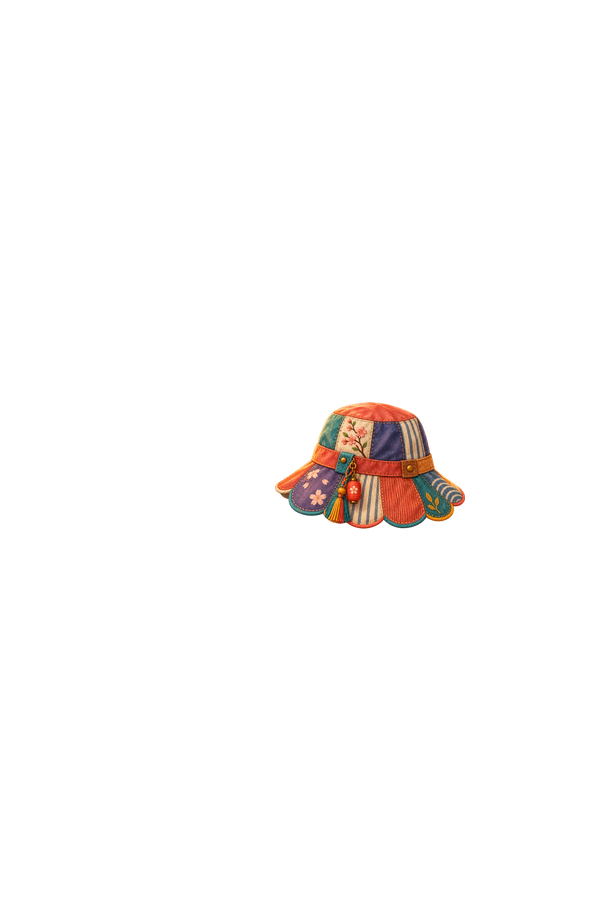
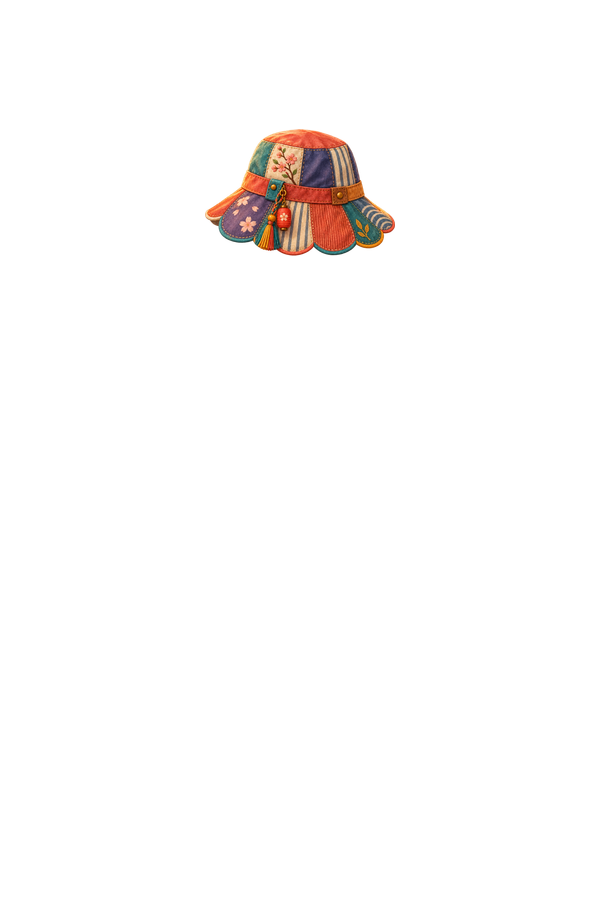
Fix headwear anchor, confirm wide-leg-pants, soften head/neck seam
- Headwear (explorer cap, bucket hat) was normalized into the chest-level
  accessory slot bounds during generation, so it rendered floating over the
  torso instead of on the head. Added a normalizeSlot override
  (server/closet/tokyoManifest.ts + generateClosetAsset.ts) so headwear
  normalizes into the head-level hair slot bounds instead, and re-normalized
  the two existing PNGs locally (no new generation cost).
- Confirmed wide-leg-pants renders correctly (already fixed by earlier
  catalog wiring).
- Added a soft blurred shadow at the neck/shoulder and chin/neck junctions in
  ClassicDoll's SVG to feather the head-to-body seam.
- Full manual verification pass: every top/bottom/layer/shoe/accessory and
  representative color swatches confirmed rendering, correctly positioned,
  and non-duplicating at mobile/tablet/desktop widths.

Changed region(s): [[0.45, 0.4356, 0.78, 0.5911], [0.33, 0.1244, 0.66, 0.3111]]

diff --git a/src/LittleJetterApp.tsx b/src/LittleJetterApp.tsx
@@ -116,9 +116,9 @@ function ClassicDoll({ picks, character, garmentColors, onlyLayer, previewViewBo
   const isSweater = picks.tops === 'sweater' || picks.tops === 'adventure-shirt';
   const hairStyle = character.hairStyle ?? 'curls';
   return <svg className={`little-aligned-doll ${onlyLayer ? 'little-garment-canvas' : ''}`} viewBox={previewViewBox} style={{ '--top-fill': top, '--bottom-fill': bottom, '--layer-fill': layer ?? 'transparent', '--shoe-fill': shoes } as React.CSSProperties} data-master-canvas="600x900" data-hidden-layers={hiddenLayers.join(' ')} data-only-layer={onlyLayer} data-layer-map={JSON.stringify(LAYERS)} role="img" aria-label={onlyLayer ? `${onlyLayer} garment preview` : `Doll in a base outfit wearing ${wardrobe.tops.find(item=>item.id===picks.tops)?.name}, ${wardrobe.bottoms.find(item=>item.id===picks.bottoms)?.name}, and ${wardrobe.shoes.find(item=>item.id===picks.shoes)?.name}`}>
-    <defs><radialGradient id="skinGlow" cx="34%" cy="20%" r="82%"><stop stopColor="#fff" stopOpacity=".48"/><stop offset=".42" stopColor={skin}/><stop offset=".82" stopColor={skin}/><stop offset="1" stopColor="#70432f" stopOpacity=".3"/></radialGradient><linearGradient id="skinBody" x1=".18" y1="0" x2=".82" y2="1"><stop stopColor="#fff" stopOpacity=".3"/><stop offset=".3" stopColor={skin}/><stop offset="1" stopColor="#70432f" stopOpacity=".23"/></linearGradient><linearGradient id="underTop" x1="0" y1="0" x2="1" y2="1"><stop stopColor="#fffdf6"/><stop offset=".55" stopColor="#fff3d8"/><stop offset="1" stopColor="#dfc397"/></linearGradient><linearGradient id="underBottom" x1="0" y1="0" x2="1" y2="1"><stop stopColor="#8eabc2"/><stop offset=".55" stopColor="#607f9d"/><stop offset="1" stopColor="#405f7c"/></linearGradient><linearGradient id="hairShade" x1=".2" y1="0" x2=".8" y2="1"><stop stopColor="#fff" stopOpacity=".24"/><stop offset=".28" stopColor={hair}/><stop offset="1" stopColor="#211a19" stopOpacity=".46"/></linearGradient><linearGradient id="topShade" x1=".15" y1="0" x2=".85" y2="1"><stop stopColor="#fff" stopOpacity=".4"/><stop offset=".45" stopColor={top}/><stop offset="1" stopColor="#173a47" stopOpacity=".2"/></linearGradient><linearGradient id="bottomShade" x1=".1" y1="0" x2=".9" y2="1"><stop stopColor="#fff" stopOpacity=".26"/><stop offset=".42" stopColor={bottom}/><stop offset="1" stopColor="#173a47" stopOpacity=".25"/></linearGradient><linearGradient id="layerShade" x1=".1" y1="0" x2=".9" y2="1"><stop stopColor="#fff" stopOpacity=".4"/><stop offset=".48" stopColor={layer}/><stop offset="1" stopColor="#173a47" stopOpacity=".22"/></linearGradient><linearGradient id="shoeShade" x1=".15" y1="0" x2=".85" y2="1"><stop stopColor="#fff" stopOpacity=".3"/><stop offset=".44" stopColor={shoes}/><stop offset="1" stopColor="#173a47" stopOpacity=".28"/></linearGradient><filter id="softShadow"><feDropShadow dx="0" dy="4" stdDeviation="5" floodColor="#173a47" floodOpacity=".18"/></filter></defs>
+    <defs><radialGradient id="skinGlow" cx="34%" cy="20%" r="82%"><stop stopColor="#fff" stopOpacity=".48"/><stop offset=".42" stopColor={skin}/><stop offset=".82" stopColor={skin}/><stop offset="1" stopColor="#70432f" stopOpacity=".3"/></radialGradient><linearGradient id="skinBody" x1=".18" y1="0" x2=".82" y2="1"><stop stopColor="#fff" stopOpacity=".3"/><stop offset=".3" stopColor={skin}/><stop offset="1" stopColor="#70432f" stopOpacity=".23"/></linearGradient><linearGradient id="underTop" x1="0" y1="0" x2="1" y2="1"><stop stopColor="#fffdf6"/><stop offset=".55" stopColor="#fff3d8"/><stop offset="1" stopColor="#dfc397"/></linearGradient><linearGradient id="underBottom" x1="0" y1="0" x2="1" y2="1"><stop stopColor="#8eabc2"/><stop offset=".55" stopColor="#607f9d"/><stop offset="1" stopColor="#405f7c"/></linearGradient><linearGradient id="hairShade" x1=".2" y1="0" x2=".8" y2="1"><stop stopColor="#fff" stopOpacity=".24"/><stop offset=".28" stopColor={hair}/><stop offset="1" stopColor="#211a19" stopOpacity=".46"/></linearGradient><linearGradient id="topShade" x1=".15" y1="0" x2=".85" y2="1"><stop stopColor="#fff" stopOpacity=".4"/><stop offset=".45" stopColor={top}/><stop offset="1" stopColor="#173a47" stopOpacity=".2"/></linearGradient><linearGradient id="bottomShade" x1=".1" y1="0" x2=".9" y2="1"><stop stopColor="#fff" stopOpacity=".26"/><stop offset=".42" stopColor={bottom}/><stop offset="1" stopColor="#173a47" stopOpacity=".25"/></linearGradient><linearGradient id="layerShade" x1=".1" y1="0" x2=".9" y2="1"><stop stopColor="#fff" stopOpacity=".4"/><stop offset=".48" stopColor={layer}/><stop offset="1" stopColor="#173a47" stopOpacity=".22"/></linearGradient><linearGradient id="shoeShade" x1=".15" y1="0" x2=".85" y2="1"><stop stopColor="#fff" stopOpacity=".3"/><stop offset=".44" stopColor={shoes}/><stop offset="1" stopColor="#173a47" stopOpacity=".28"/></linearGradient><filter id="softShadow"><feDropShadow dx="0" dy="4" stdDeviation="5" floodColor="#173a47" floodOpacity=".18"/></filter><filter id="neckBlend" x="-60%" y="-60%" width="220%" height="220%"><feGaussianBlur stdDeviation="3.2"/></filter></defs>
     <g transform="scale(1.5)"><ellipse cx="200" cy="520" rx="82" ry="13" fill="#173a47" opacity=".16" filter="url(#softShadow)"/>
-    <g data-layer="base"><path d="M157 220q-24 24-35 83l-8 83q-2 20 14 23 17 2 20-17l12-75 15-53zm86 0q24 24 35 83l8 83q2 20-14 23-17 2-20-17l-12-75-15-53z" fill="url(#skinBody)"/><path d="M174 329l-15 145-8 31q-4 17 12 22 16 4 23-14l14-54 14 54q7 18 23 14 16-5 12-22l-8-31-15-145z" fill="url(#skinBody)"/><path d="M184 194h32l6 32h-44z" fill="url(#skinBody)"/><ellipse cx="143" cy="151" rx="12" ry="18" fill="url(#skinBody)"/><ellipse cx="257" cy="151" rx="12" ry="18" fill="url(#skinBody)"/><circle cx="200" cy="145" r="63" fill="url(#skinGlow)"/><ellipse cx="182" cy="155" rx="12" ry="14" fill="#fffaf4"/><ellipse cx="218" cy="155" rx="12" ry="14" fill="#fffaf4"/><circle cx="182" cy="157" r="7" fill={eyes}/><circle cx="218" cy="157" r="7" fill={eyes}/><circle cx="179" cy="153" r="2.7" fill="white"/><circle cx="215" cy="153" r="2.7" fill="white"/><path d="M169 136q13-8 25 0m12 0q12-8 25 0" fill="none" stroke={hair} strokeOpacity=".7" strokeWidth="4" strokeLinecap="round"/><path d="M201 157q-5 11 1 15" fill="none" stroke="#8d5847" strokeOpacity=".45" strokeWidth="2.5" strokeLinecap="round"/><path d="M184 181q16 15 32 0" fill="#c85f61" fillOpacity=".16" stroke="#9b4d46" strokeWidth="3.2" strokeLinecap="round"/><ellipse cx="163" cy="174" rx="12" ry="7" fill="#ef8f80" opacity=".26"/><ellipse cx="237" cy="174" rx="12" ry="7" fill="#ef8f80" opacity=".26"/>{character.style === 'girl' && <><path d="M169 150l-5-3m68 3 5-3" stroke={hair} strokeWidth="2.5" strokeLinecap="round"/><circle cx="171" cy="173" r="1.5" fill="#9b5b4b" opacity=".5"/><circle cx="176" cy="176" r="1.4" fill="#9b5b4b" opacity=".45"/><circle cx="229" cy="173" r="1.5" fill="#9b5b4b" opacity=".5"/><circle cx="224" cy="176" r="1.4" fill="#9b5b4b" opacity=".45"/></>}</g>
+    <g data-layer="base"><path d="M157 220q-24 24-35 83l-8 83q-2 20 14 23 17 2 20-17l12-75 15-53zm86 0q24 24 35 83l8 83q2 20-14 23-17 2-20-17l-12-75-15-53z" fill="url(#skinBody)"/><path d="M174 329l-15 145-8 31q-4 17 12 22 16 4 23-14l14-54 14 54q7 18 23 14 16-5 12-22l-8-31-15-145z" fill="url(#skinBody)"/><path d="M184 194h32l6 32h-44z" fill="url(#skinBody)"/><ellipse cx="200" cy="196" rx="19" ry="7" fill="#70432f" opacity=".14" filter="url(#neckBlend)"/><ellipse cx="200" cy="223" rx="27" ry="9" fill="#70432f" opacity=".22" filter="url(#neckBlend)"/><ellipse cx="143" cy="151" rx="12" ry="18" fill="url(#skinBody)"/><ellipse cx="257" cy="151" rx="12" ry="18" fill="url(#skinBody)"/><circle cx="200" cy="145" r="63" fill="url(#skinGlow)"/><ellipse cx="182" cy="155" rx="12" ry="14" fill="#fffaf4"/><ellipse cx="218" cy="155" rx="12" ry="14" fill="#fffaf4"/><circle cx="182" cy="157" r="7" fill={eyes}/><circle cx="218" cy="157" r="7" fill={eyes}/><circle cx="179" cy="153" r="2.7" fill="white"/><circle cx="215" cy="153" r="2.7" fill="white"/><path d="M169 136q13-8 25 0m12 0q12-8 25 0" fill="none" stroke={hair} strokeOpacity=".7" strokeWidth="4" strokeLinecap="round"/><path d="M201 157q-5 11 1 15" fill="none" stroke="#8d5847" strokeOpacity=".45" strokeWidth="2.5" strokeLinecap="round"/><path d="M184 181q16 15 32 0" fill="#c85f61" fillOpacity=".16" stroke="#9b4d46" strokeWidth="3.2" strokeLinecap="round"/><ellipse cx="163" cy="174" rx="12" ry="7" fill="#ef8f80" opacity=".26"/><ellipse cx="237" cy="174" rx="12" ry="7" fill="#ef8f80" opacity=".26"/>{character.style === 'girl' && <><path d="M169 150l-5-3m68 3 5-3" stroke={hair} strokeWidth="2.5" strokeLinecap="round"/><circle cx="171" cy="173" r="1.5" fill="#9b5b4b" opacity=".5"/><circle cx="176" cy="176" r="1.4" fill="#9b5b4b" opacity=".45"/><circle cx="229" cy="173" r="1.5" fill="#9b5b4b" opacity=".5"/><circle cx="224" cy="176" r="1.4" fill="#9b5b4b" opacity=".45"/></>}</g>
     <g key={`${hairStyle}-${character.hair}`} data-layer="hair" data-hair-style={hairStyle} filter="url(#softShadow)">
       {hairStyle === 'short' && <><path d="M143 145q2-71 57-71 58 0 57 73-18-38-57-38-38 0-57 36z" fill={hair} stroke="#173a47" strokeWidth="5"/><path d="M153 111q47-34 94 5" fill="none" stroke="white" strokeOpacity=".13" strokeWidth="7" strokeLinecap="round"/></>}
       {hairStyle === 'bob' && <><path d="M137 150q-3-84 63-84 67 0 64 84l-9 63-30-13 7-74q-32-29-64 0l7 74-30 13z" fill={hair} stroke="#173a47" strokeWidth="5"/><path d="M158 105q42-29 83 4" fill="none" stroke="white" strokeOpacity=".14" strokeWidth="7" strokeLinecap="round"/></>}

diff --git a/server/closet/tokyoManifest.ts b/server/closet/tokyoManifest.ts
@@ -55,9 +55,25 @@ const COLOR_VARIANTS: Record<string, string[]> = {
   'adventure-shirt': ['red', 'blue', 'purple', 'teal'],
 };
 
+// "accessory" is one catalog `slot`, but it covers two very different anchor
+// points on the doll: headwear (cap, bucket hat — anchored at head level) vs
+// handheld/worn-on-body items (bag, camera — anchored at chest level). The
+// catalog's `slot` field stays "accessory" for both (it drives z-index and
+// which fallback vector layer gets hidden), but generation must normalize
+// headwear into the `hair` slot-safe bound instead of the `accessory` one, or
+// the art ends up baked in at chest height. This is what fixed
+// travel-cap/bucket-hat rendering on the torso instead of the head.
+const NORMALIZE_SLOT_OVERRIDE: Record<string, ClosetSlot> = {
+  'travel-cap': 'hair',
+  'bucket-hat': 'hair',
+  'sun-glasses': 'hair',
+};
+
 export type GenerationManifestEntry = {
   destinationId: 'tokyo';
   slot: ClosetSlot;
+  /** Slot bounds to normalize the generated art into, if different from `slot` (see NORMALIZE_SLOT_OVERRIDE above). */
+  normalizeSlot: ClosetSlot;
   itemId: string;
   name: string;
   itemPrompt: string;
@@ -68,15 +84,19 @@ export type GenerationManifestEntry = {
 
 export const TOKYO_EXISTING_ASSETS: GenerationManifestEntry[] = (
   ['stripe', 'rain', 'travel-jeans', 'sneakers', 'crossbody'] as ReferenceAssetKey[]
-).map((key) => ({
-  destinationId: 'tokyo',
-  slot: (Object.entries(REFERENCE_ASSET_BY_SLOT).find(([, ref]) => ref === key)?.[0] as ClosetSlot) ?? 'accessory',
-  itemId: key,
-  name: `Tokyo ${key} (canonical reference — do not regenerate)`,
-  itemPrompt: 'Canonical reference asset — do not regenerate.',
-  referenceAsset: key,
-  status: 'existing',
-}));
+).map((key) => {
+  const slot = (Object.entries(REFERENCE_ASSET_BY_SLOT).find(([, ref]) => ref === key)?.[0] as ClosetSlot) ?? 'accessory';
+  return {
+    destinationId: 'tokyo' as const,
+    slot,
+    normalizeSlot: slot,
+    itemId: key,
+    name: `Tokyo ${key} (canonical reference — do not regenerate)`,
+    itemPrompt: 'Canonical reference asset — do not regenerate.',
+    referenceAsset: key,
+    status: 'existing' as const,
+  };
+});
 
 export const TOKYO_GENERATION_MANIFEST: GenerationManifestEntry[] = [
   ...TOKYO_EXISTING_ASSETS,
@@ -85,6 +105,7 @@ export const TOKYO_GENERATION_MANIFEST: GenerationManifestEntry[] = [
     return {
       destinationId: 'tokyo',
       slot,
+      normalizeSlot: NORMALIZE_SLOT_OVERRIDE[item.itemId] ?? slot,
       itemId: item.itemId,
       name: item.name,
       itemPrompt: ITEM_PROMPTS[item.itemId] ?? item.name,

diff --git a/server/closet/generateClosetAsset.ts b/server/closet/generateClosetAsset.ts
@@ -16,6 +16,8 @@ export type GenerateClosetAssetInput = {
   itemId: string;
   itemPrompt: string;
   color?: string;
+  /** Slot bounds to normalize the art into, if different from `slot` (e.g. a headwear accessory normalizes into `hair`, not `accessory`). Defaults to `slot`. */
+  normalizeSlot?: ClosetSlot;
   /** Public-root-relative path (e.g. "/little-jetter/catalog/tokyo/stripe/coral.png") to an existing asset to steer style from. */
   referenceAsset?: string;
   quality?: 'low' | 'medium' | 'high';
@@ -57,10 +59,11 @@ export async function generateClosetAsset(input: GenerateClosetAssetInput): Prom
     color: input.color,
   });
 
+  const normalizeSlot = input.normalizeSlot ?? input.slot;
   const referenceImage = input.referenceAsset ? await readReferenceImage(input.referenceAsset) : undefined;
   const raw = await generateClosetImage({ prompt, referenceImage, quality: input.quality });
-  const normalized = await normalizeToClosetCanvas(raw, input.slot);
-  const qc = await qcCheck(normalized, input.slot);
+  const normalized = await normalizeToClosetCanvas(raw, normalizeSlot);
+  const qc = await qcCheck(normalized, normalizeSlot);
   const asset = await storage.saveClosetAsset(normalized, metadata);
 
   const previous = await storage.getGenerationRecord(metadata);

diff --git a/scripts/generate-destination.ts b/scripts/generate-destination.ts
@@ -66,6 +66,7 @@ async function main() {
           const result = await generateClosetAsset({
             destinationId: entry.destinationId,
             slot: entry.slot,
+            normalizeSlot: entry.normalizeSlot,
             itemId: entry.itemId,
             itemPrompt: entry.itemPrompt,
             color,

diff --git a/docs/closet-asset-generation.md b/docs/closet-asset-generation.md
@@ -37,6 +37,18 @@ checklist in `docs/wardrobe-asset-template.md`, then add matching entries to
 the new files. Nothing here touches the catalog automatically — that step is
 still a deliberate, reviewed edit.
 
+## Headwear vs. body-worn accessories
+
+The catalog's `accessory` slot covers two different anchor points on the doll:
+headwear (cap, bucket hat — anchored at head level) and handheld/worn-on-body
+items (bag, camera — anchored at chest level). The catalog `slot` field stays
+`"accessory"` for both — that's what drives z-index and which fallback vector
+layer gets hidden — but **generation** must normalize headwear into the `hair`
+slot-safe bound instead of `accessory`, or the art bakes in at chest height.
+`NORMALIZE_SLOT_OVERRIDE` in `server/closet/tokyoManifest.ts` is where that's
+declared per item id; `generateClosetAsset`'s `normalizeSlot` parameter is what
+actually uses it. Add a new headwear item id to that map before generating it.
+
 ## What's in the pipeline
 
 - `server/closet/assetSpec.ts` — canonical canvas/anchor/slot-bounds constants.
